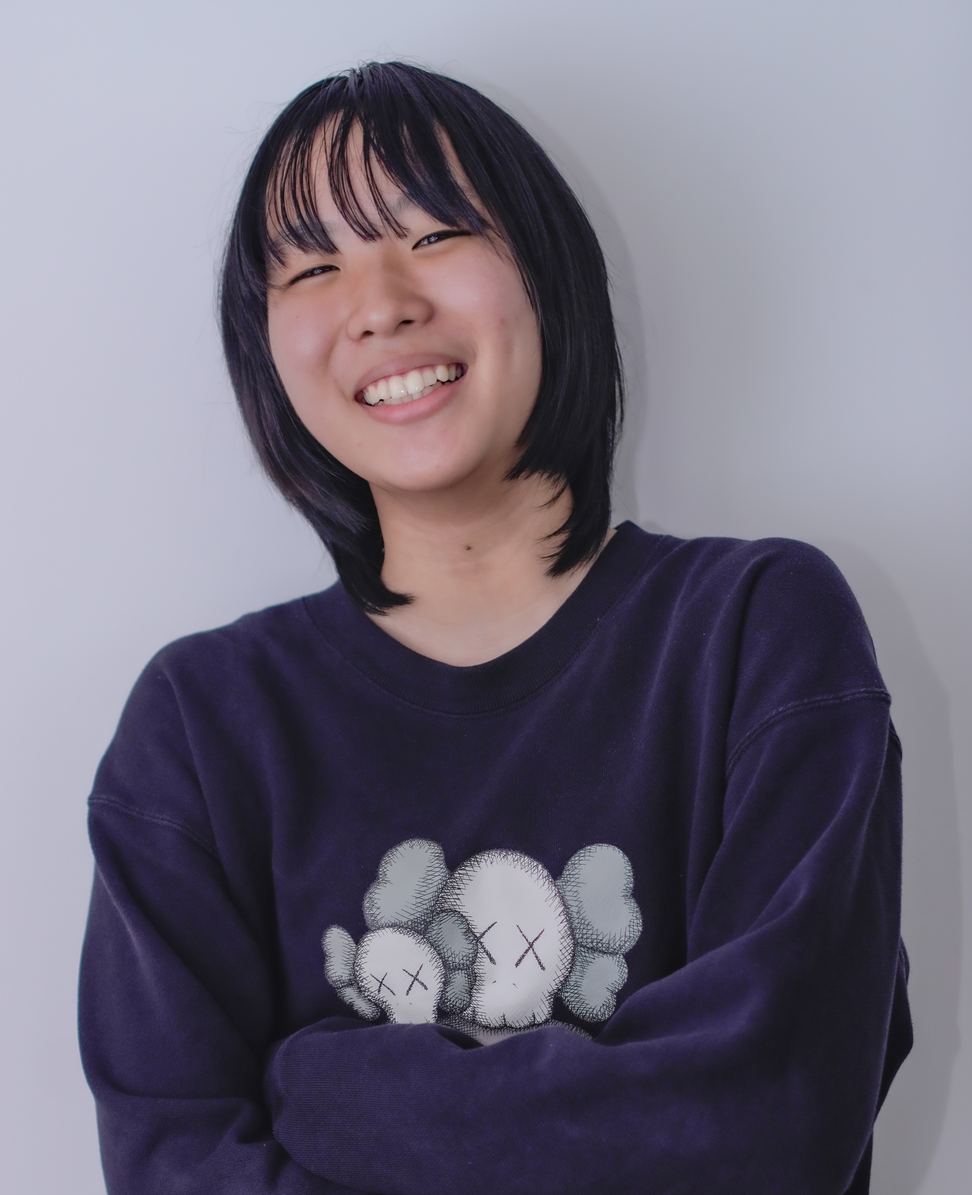
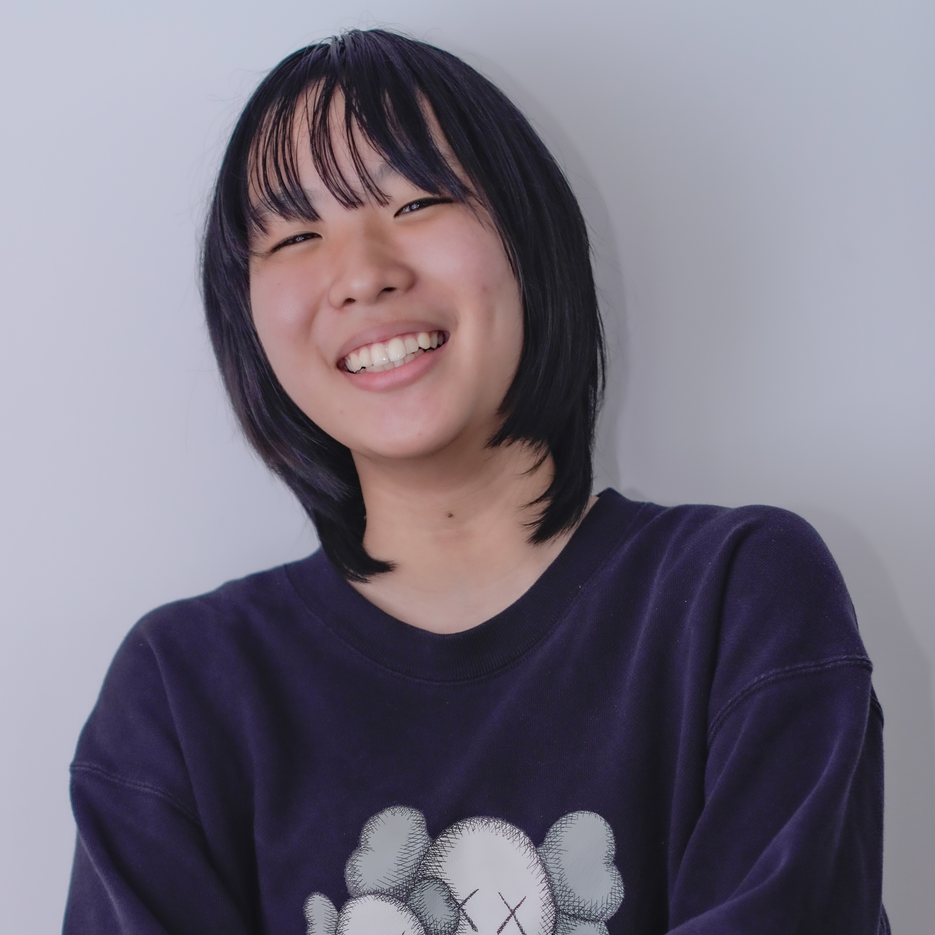
update:キャスト写真追加分

diff --git a/index.html b/index.html
@@ -184,7 +184,7 @@
                     <!-- cast 1 -->
                     <div class="text-center">
                         <div class="aspect-square w-[80%] max-w-[200px] overflow-hidden rounded-lg mx-auto">
-                            <img src="photos/bach-tran-s4vdHcJf_m0-unsplash.jpg" alt="cast1" class="w-full h-full object-cover">
+                            <img src="photos/DSC8853.jpg" alt="cast1" class="w-full h-full object-cover">
                         </div>
                         <h2 class="mt-2 text-[18px] font-[400] text-gray-800">城之内 晶</h2>
                         <h2 class="text-[16px] font-[300] text-gray-800">cast:早雲 楓人</h2>
@@ -196,16 +196,16 @@
                             <img src="photos/DSC8777.jpg" alt="cast1" class="w-full h-full object-cover">
                         </div>
                         <h2 class="mt-2 text-[18px] font-[400] text-gray-800">松本 凌月</h2>
-                        <h2 class="text-[16px] font-[300] text-gray-800">cast:田中太郎</h2>
+                        <h2 class="text-[16px] font-[300] text-gray-800">cast:佐久間 康輔</h2>
                     </div>
 
                     <!-- cast 1 -->
                     <div class="text-center">
                         <div class="aspect-square w-[80%] max-w-[200px] overflow-hidden rounded-lg mx-auto">
-                            <img src="photos/zou-meng-rWJpKloM-Ew-unsplash.jpg" alt="cast1" class="w-full h-full object-cover">
+                            <img src="photos/DSC8928.jpg" alt="cast1" class="w-full h-full object-cover">
                         </div>
                         <h2 class="mt-2 text-[18px] font-[400] text-gray-800">阿久澤 光留</h2>
-                        <h2 class="text-[16px] font-[300] text-gray-800">cast:田中太郎</h2>
+                        <h2 class="text-[16px] font-[300] text-gray-800">cast:町田 昂優</h2>
                     </div>
 
                     <div class="text-center">
@@ -213,15 +213,15 @@
                             <img src="photos/DSC8800.jpg" alt="cast1" class="w-full h-full object-cover">
                         </div>
                         <h2 class="mt-2 text-[18px] font-[400] text-gray-800">木村 紗絵</h2>
-                        <h2 class="text-[16px] font-[300] text-gray-800">cast:田中太郎</h2>
+                        <h2 class="text-[16px] font-[300] text-gray-800">cast:宮脇 悠花</h2>
                     </div>
 
                     <div class="text-center">
                         <div class="aspect-square w-[80%] max-w-[200px] overflow-hidden rounded-lg mx-auto">
-                            <img src="photos/bach-tran-s4vdHcJf_m0-unsplash.jpg" alt="cast1" class="w-full h-full object-cover">
+                            <img src="photos/DSC8974.jpg" alt="cast1" class="w-full h-full object-cover">
                         </div>
                         <h2 class="mt-2 text-[18px] font-[400] text-gray-800">高梨 ミリー</h2>
-                        <h2 class="text-[16px] font-[300] text-gray-800">cast:田中太郎</h2>
+                        <h2 class="text-[16px] font-[300] text-gray-800">cast:メリット キア</h2>
                     </div>
 
                     <div class="text-center">
@@ -242,19 +242,19 @@
 
                     <div class="text-center">
                         <div class="aspect-square w-[80%] max-w-[200px] overflow-hidden rounded-lg mx-auto">
-                            <img src="photos/anthony-tran-3Xkms-gMvZg-unsplash.jpg" alt="cast1" class="w-full h-full object-cover">
+                            <img src="photos/DSC8880.jpg" alt="cast1" class="w-full h-full object-cover">
                         </div>
                         <h2 class="mt-2 text-[18px] font-[400] text-gray-800">青木 天寧</h2>
-                        <h2 class="text-[16px] font-[300] text-gray-800">cast:田中太郎</h2>
+                        <h2 class="text-[16px] font-[300] text-gray-800">cast:菊地 ひかり</h2>
                     </div>
 
                     <!-- cast 1 -->
                     <div class="text-center">
                         <div class="aspect-square w-[80%] max-w-[200px] overflow-hidden rounded-lg mx-auto">
-                            <img src="photos/bach-tran-s4vdHcJf_m0-unsplash.jpg" alt="cast1" class="w-full h-full object-cover">
+                            <img src="photos/DSC8943.jpg" alt="cast1" class="w-full h-full object-cover">
                         </div>
                         <h2 class="mt-2 text-[18px] font-[400] text-gray-800">高木 小春</h2>
-                        <h2 class="text-[16px] font-[300] text-gray-800">cast:田中太郎</h2>
+                        <h2 class="text-[16px] font-[300] text-gray-800">cast:松原 夢実</h2>
                     </div>
 
 
